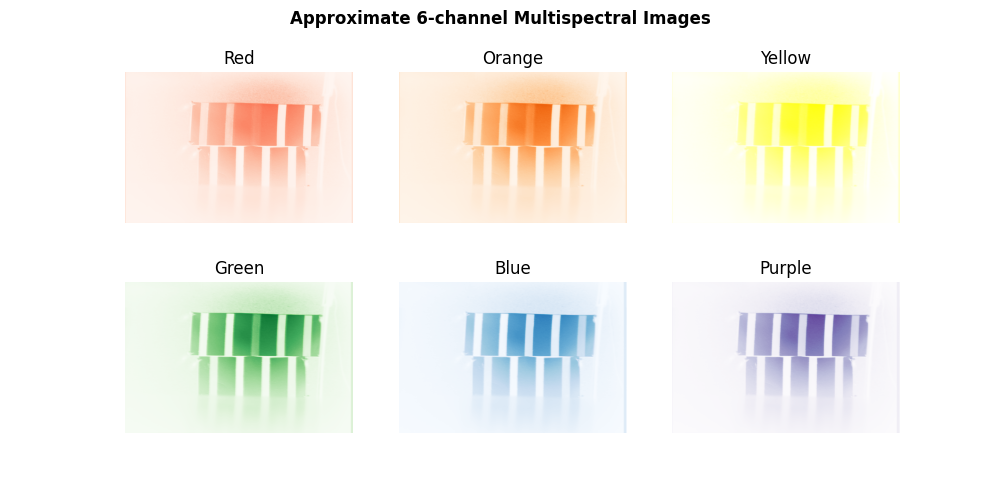
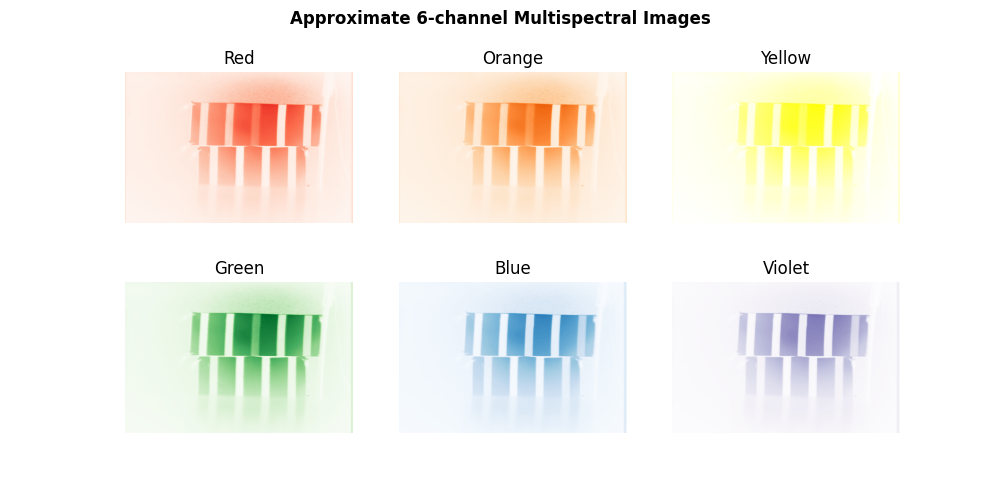
added more accurate values for spectral response

Changed region(s): [[0.186, 0.18, 0.341, 0.36], [0.775, 0.6, 0.868, 0.72], [0.744, 0.51, 0.806, 0.57]]

diff --git a/dispersionImg.py b/dispersionImg.py
@@ -111,17 +111,79 @@ class DispersionImg:
                 # a general use case. Eventually I asked ChatGPT and it suggested the following balance which seems to work well so far
                 # Future work will want to allow users to input the spectral response of their photosites if they happen to have it.
                 # This will serve as a 
-                # Color weight tuples in format (r, g, b)
-                self.colorWeights['red'] = (1.0, 0.0, 0.0)
-                self.colorWeights['orange'] = (0.75, 0.25, 0.0)
-                self.colorWeights['yellow'] = (0.5, 0.5, 0.0)
-                self.colorWeights['green'] = (0.0, 1.0, 0.0)
-                self.colorWeights['blue'] = (0.0, 0.2, 0.8)
-                self.colorWeights['violet'] = (0.3, 0.0, 0.7)
 
-                # Align the raw channels
-                # self.__alignRawChannels()
-                # Combine the green into one channel
+
+                # The image sensor in a Nikon D90 and Nikon D5000 are the same
+                # I was unable to find the spectral response data for the Nikon D5000, but there is a useful
+                # Researchgate paper that details the spectral response of the D90. I will use this below
+                # To get a better estimate of the colorweights
+                
+                # Color weight tuples in format (r, g, b)
+
+                self.colorWeights[400] = (0.0,   0.0,    0.0)
+                self.colorWeights[405] = (0.015, 0.005,  0.11)
+                self.colorWeights[410] = (0.02,  0.005,  0.2)
+                self.colorWeights[415] = (0.039, 0.01,   0.53)
+                self.colorWeights[420] = (0.05,  0.01,   0.42)
+                self.colorWeights[425] = (0.065, 0.015,  0.53)
+                self.colorWeights[430] = (0.08,  0.02,   0.61)
+                self.colorWeights[435] = (0.095, 0.025,  0.68)
+                self.colorWeights[440] = (0.11,  0.03,   0.73)
+                self.colorWeights[445] = (0.15,  0.034,  0.625)
+                self.colorWeights[450] = (0.105, 0.035,  0.67)
+                self.colorWeights[455] = (0.1,   0.039,  0.62)
+                self.colorWeights[460] = (0.085, 0.05,   0.595)
+                self.colorWeights[465] = (0.069, 0.085,  0.64)
+                self.colorWeights[470] = (0.035, 0.13,   0.7)
+                self.colorWeights[475] = (0.015, 0.185,  0.775)
+                self.colorWeights[480] = (0.0,   0.245,  0.815)
+                self.colorWeights[485] = (0.02,  0.345,  0.828)
+                self.colorWeights[490] = (0.04,  0.47,   0.83)
+                self.colorWeights[495] = (0.075, 0.57,   0.828)
+                self.colorWeights[500] = (0.095, 0.68,   0.8)
+                self.colorWeights[505] = (0.1,   0.74,   0.68)
+                self.colorWeights[510] = (0.09,  0.77,   0.45)
+                self.colorWeights[515] = (0.085, 0.815,  0.24)
+                self.colorWeights[520] = (0.075, 0.83,   0.075)
+                self.colorWeights[525] = (0.072, 0.815,  0.071)
+                self.colorWeights[530] = (0.07,  0.78,   0.06)
+                self.colorWeights[535] = (0.065, 0.73,   0.059)
+                self.colorWeights[540] = (0.06,  0.7,    0.06)
+                self.colorWeights[545] = (0.06,  0.705,  0.065)
+                self.colorWeights[550] = (0.06,  0.72,   0.071)
+                self.colorWeights[555] = (0.075, 0.73,   0.08)
+                self.colorWeights[560] = (0.085, 0.72,   0.08)
+                self.colorWeights[565] = (0.23,  0.655,  0.085)
+                self.colorWeights[570] = (0.44,  0.57,   0.09)
+                self.colorWeights[575] = (0.63,  0.48,   0.09)
+                self.colorWeights[580] = (0.78,  0.4,    0.09)
+                self.colorWeights[585] = (0.85,  0.325,  0.85)
+                self.colorWeights[590] = (0.915, 0.24,   0.08)
+                self.colorWeights[595] = (0.965, 0.16,   0.075)
+                self.colorWeights[600] = (0.990, 0.1,    0.072)
+                self.colorWeights[605] = (0.985, 0.085,  0.072)
+                self.colorWeights[610] = (0.965, 0.072,  0.072)
+                self.colorWeights[615] = (0.93,  0.07,   0.07)
+                self.colorWeights[620] = (0.85,  0.06,   0.07)
+                self.colorWeights[625] = (0.84,  0.05,   0.065)
+                self.colorWeights[630] = (0.77,  0.04,   0.05)
+                self.colorWeights[635] = (0.71,  0.038,  0.049)
+                self.colorWeights[640] = (0.63,  0.03,   0.04)
+                self.colorWeights[645] = (0.52,  0.028,  0.038)
+                self.colorWeights[650] = (0.44,  0.025,  0.035)
+                self.colorWeights[655] = (0.35,  0.026,  0.032)
+                self.colorWeights[660] = (0.27,  0.025,  0.029)
+                self.colorWeights[665] = (0.19,  0.021,  0.024)
+                self.colorWeights[670] = (0.13,  0.015,  0.019)
+                self.colorWeights[685] = (0.08,  0.013,  0.014)
+                self.colorWeights[680] = (0.045, 0.011,  0.009)
+                self.colorWeights[685] = (0.027, 0.009,  0.007)
+                self.colorWeights[690] = (0.015, 0.003,  0.002)
+                self.colorWeights[695] = (0.01,  0.001,  0.001)
+                self.colorWeights[700] = (0.0,   0.0,    0.0)
+
+
+                # Start sift alignment test. Aligning all layers to green1
                 print('starting sift alignment test')
                 self.__siftAlignmentTest('green1')
 
@@ -196,6 +258,14 @@ class DispersionImg:
         plt.clf()   # Clear figure
         plt.close() # Close a figure window
 
+        # Some points we will decide are the representations of these colors
+        red = 690
+        orange = 590
+        yellow = 570
+        green = 530
+        blue = 470
+        violet = 410
+
         # Define the custom yellow colormap for white to yellow because there doesn't seem to be one like for 'Blues' and 'Reds' etc
         yellowCmap = LinearSegmentedColormap.from_list(
             'yellows',
@@ -214,53 +284,41 @@ class DispersionImg:
 
         plt.suptitle(f'Approximate 6-channel Multispectral Images', fontweight = 'bold')
         
-        # Adds a subplot at the 1st position
+        # Create red plot
         fig.add_subplot(rows, columns, 1)
-        
-        # showing image
-        plt.imshow(self.sixChannelMultispectral['red'], cmap='Reds')
+        plt.imshow(self.sixChannelMultispectral[red], cmap='Reds')
         plt.axis('off')
         plt.title("Red")
         
-        # Adds a subplot at the 1st position
+        # Create orange plot
         fig.add_subplot(rows, columns, 2)
-        
-        # showing image
-        plt.imshow(self.sixChannelMultispectral['orange'], cmap='Oranges')
+        plt.imshow(self.sixChannelMultispectral[orange], cmap='Oranges')
         plt.axis('off')
         plt.title("Orange")
         
-        # Adds a subplot at the 1st position
+        # Create yellow plot
         fig.add_subplot(rows, columns, 3)
-        
-        # showing image
-        plt.imshow(self.sixChannelMultispectral['yellow'], cmap=yellowCmap)
+        plt.imshow(self.sixChannelMultispectral[yellow], cmap=yellowCmap)
         plt.axis('off')
         plt.title("Yellow")
         
-        # Adds a subplot at the 1st position
+        # Create green plot
         fig.add_subplot(rows, columns, 4)
-        
-        # showing image
-        plt.imshow(self.sixChannelMultispectral['green'], cmap='Greens')
+        plt.imshow(self.sixChannelMultispectral[green], cmap='Greens')
         plt.axis('off')
         plt.title("Green")
 
-        # Adds a subplot at the 1st position
+        # Create blue plot
         fig.add_subplot(rows, columns, 5)
-        
-        # showing image
-        plt.imshow(self.sixChannelMultispectral['blue'], cmap='Blues')
+        plt.imshow(self.sixChannelMultispectral[blue], cmap='Blues')
         plt.axis('off')
         plt.title("Blue")
 
-        # Adds a subplot at the 1st position
+        # Create violet plot
         fig.add_subplot(rows, columns, 6)
-        
-        # showing image
-        plt.imshow(self.sixChannelMultispectral['violet'], cmap='Purples')
+        plt.imshow(self.sixChannelMultispectral[violet], cmap='Purples')
         plt.axis('off')
-        plt.title("Purple")
+        plt.title("Violet")
         
         # plt.show()
         plt.savefig(f'{self.outputImgsFolder}\\6-channel-multispectral-approximation.png')
@@ -560,17 +618,19 @@ class DispersionImg:
         # Create a simple RGB image of the 3 raw channels in alignment
         self.__combineToRGB(self.shiftedImgs['red'], greenChannel, self.shiftedImgs['blue'])
 
-        self.__makeSixChannelMultispectral(self.shiftedImgs)
+        # self.__makeSixChannelMultispectral(self.shiftedImgs)
+        self.__makeHyperspectral(self.shiftedImgs)
 
     # Ok now we are going to try slicing these up into more channels.
     # We will be making some assumptions here about the amounts of red, green, and blue that will be in the image
 
-    def __makeSixChannelMultispectral(self, channelDict):
+    def __makeHyperspectral(self, channelDict):
         # Slice up the colors by weight:
-        for color in self.colorWeights:
-            self.sixChannelMultispectral[color] = self.__approximateIntermediateColors(self.colorWeights[color])
+        for wavelengthRange in self.colorWeights:
+            self.sixChannelMultispectral[wavelengthRange] = self.__approximateIntermediateColors(self.colorWeights[wavelengthRange])
 
         self.displaySixChannelMultispectral()
+
 
         
         
